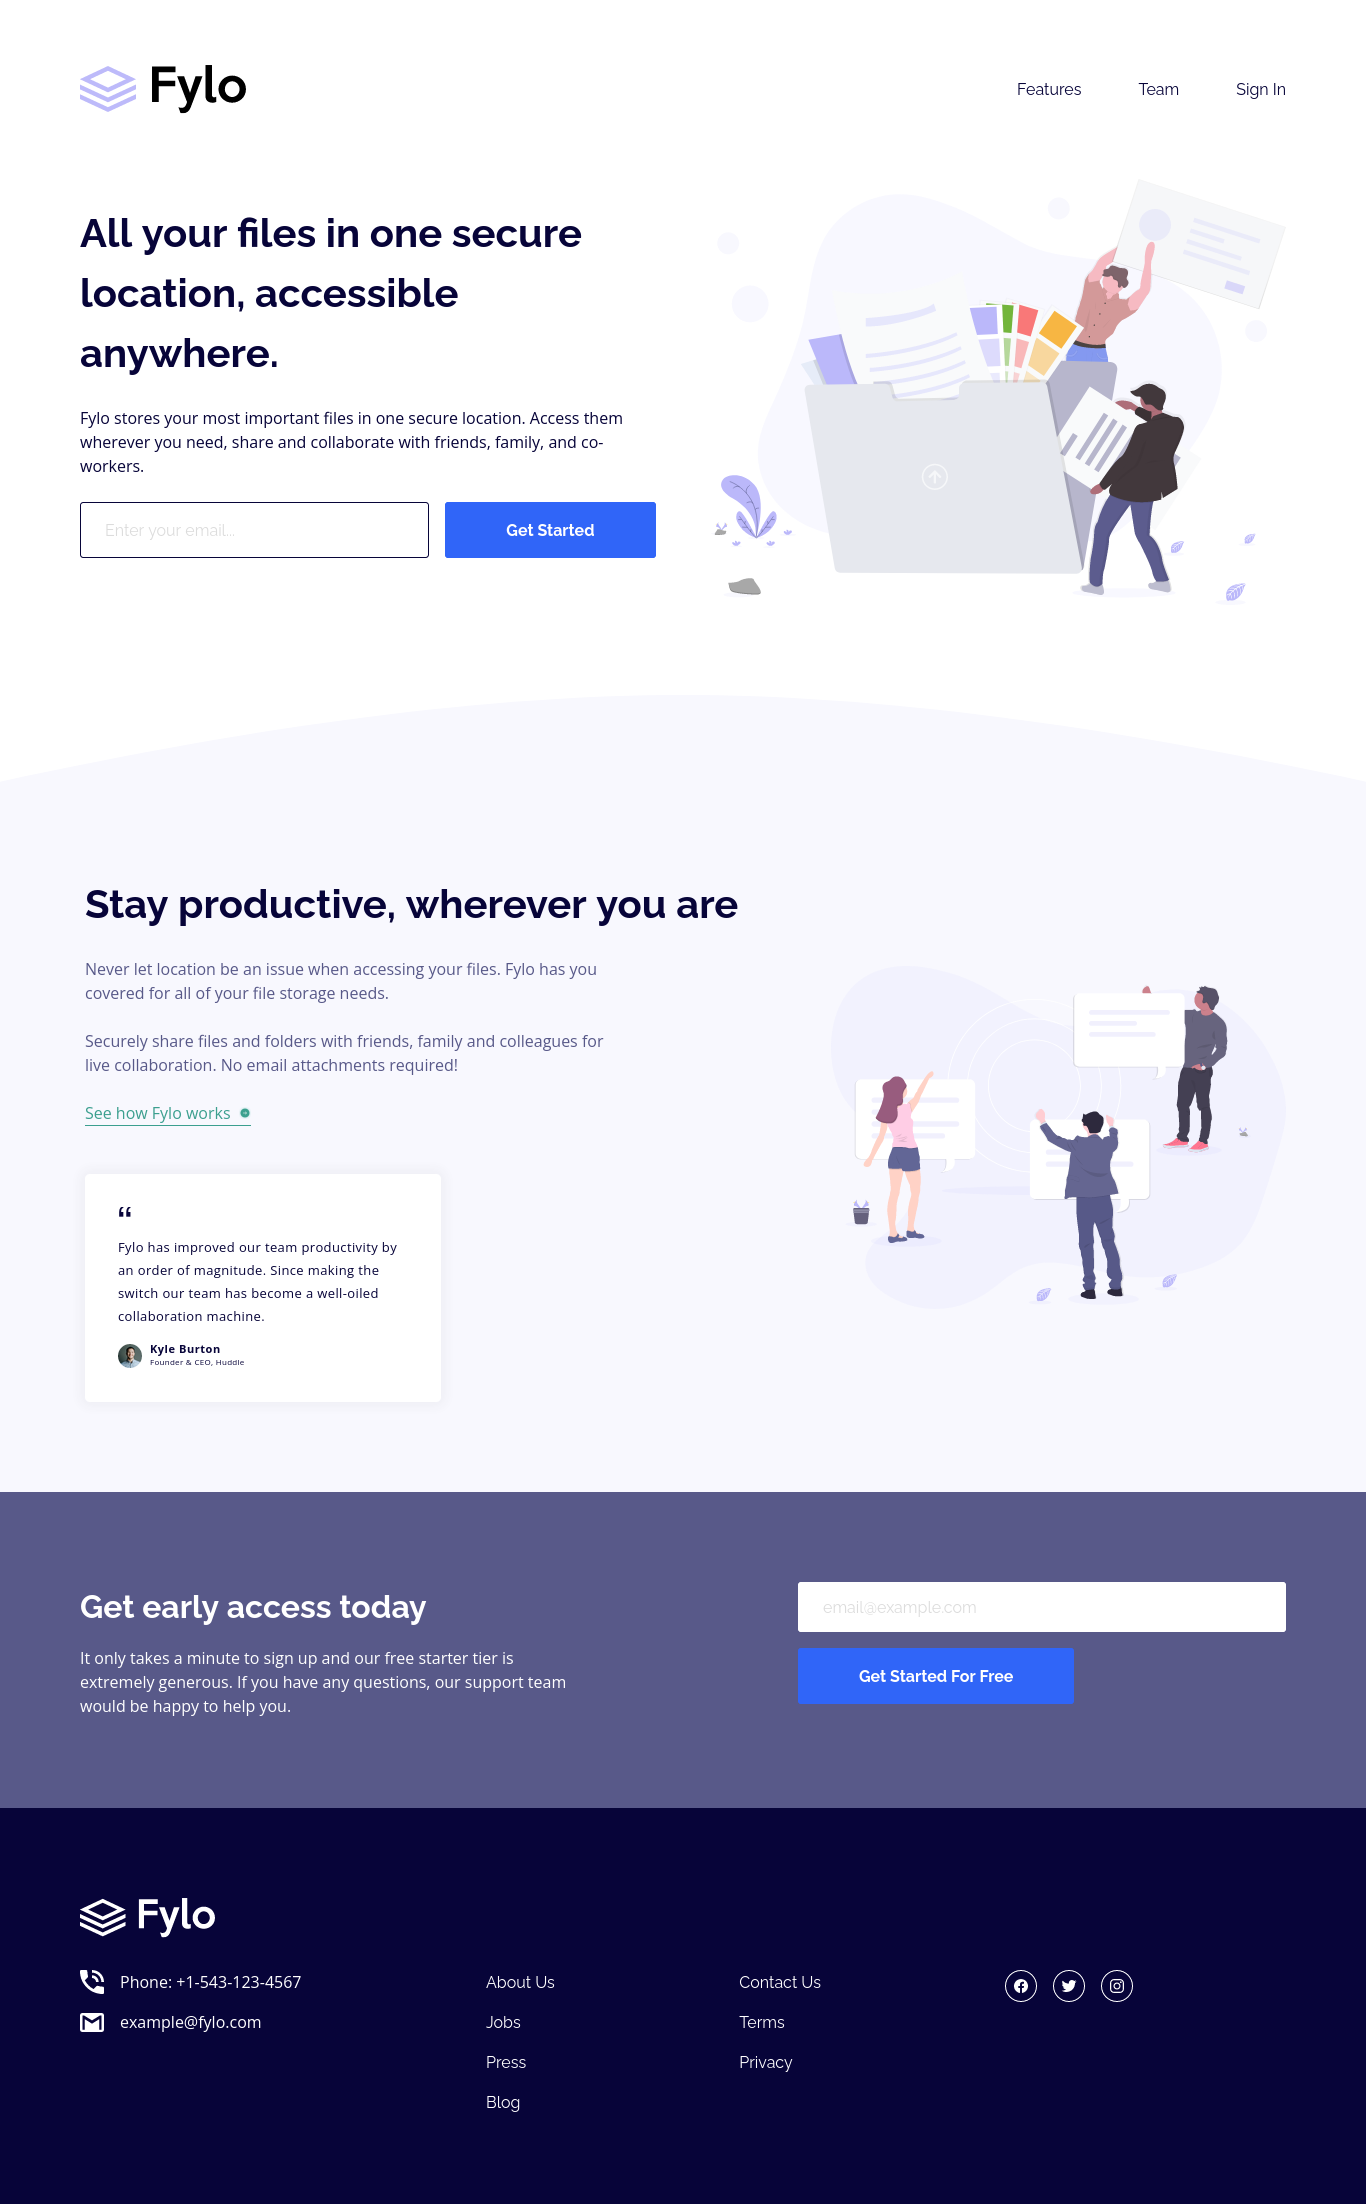
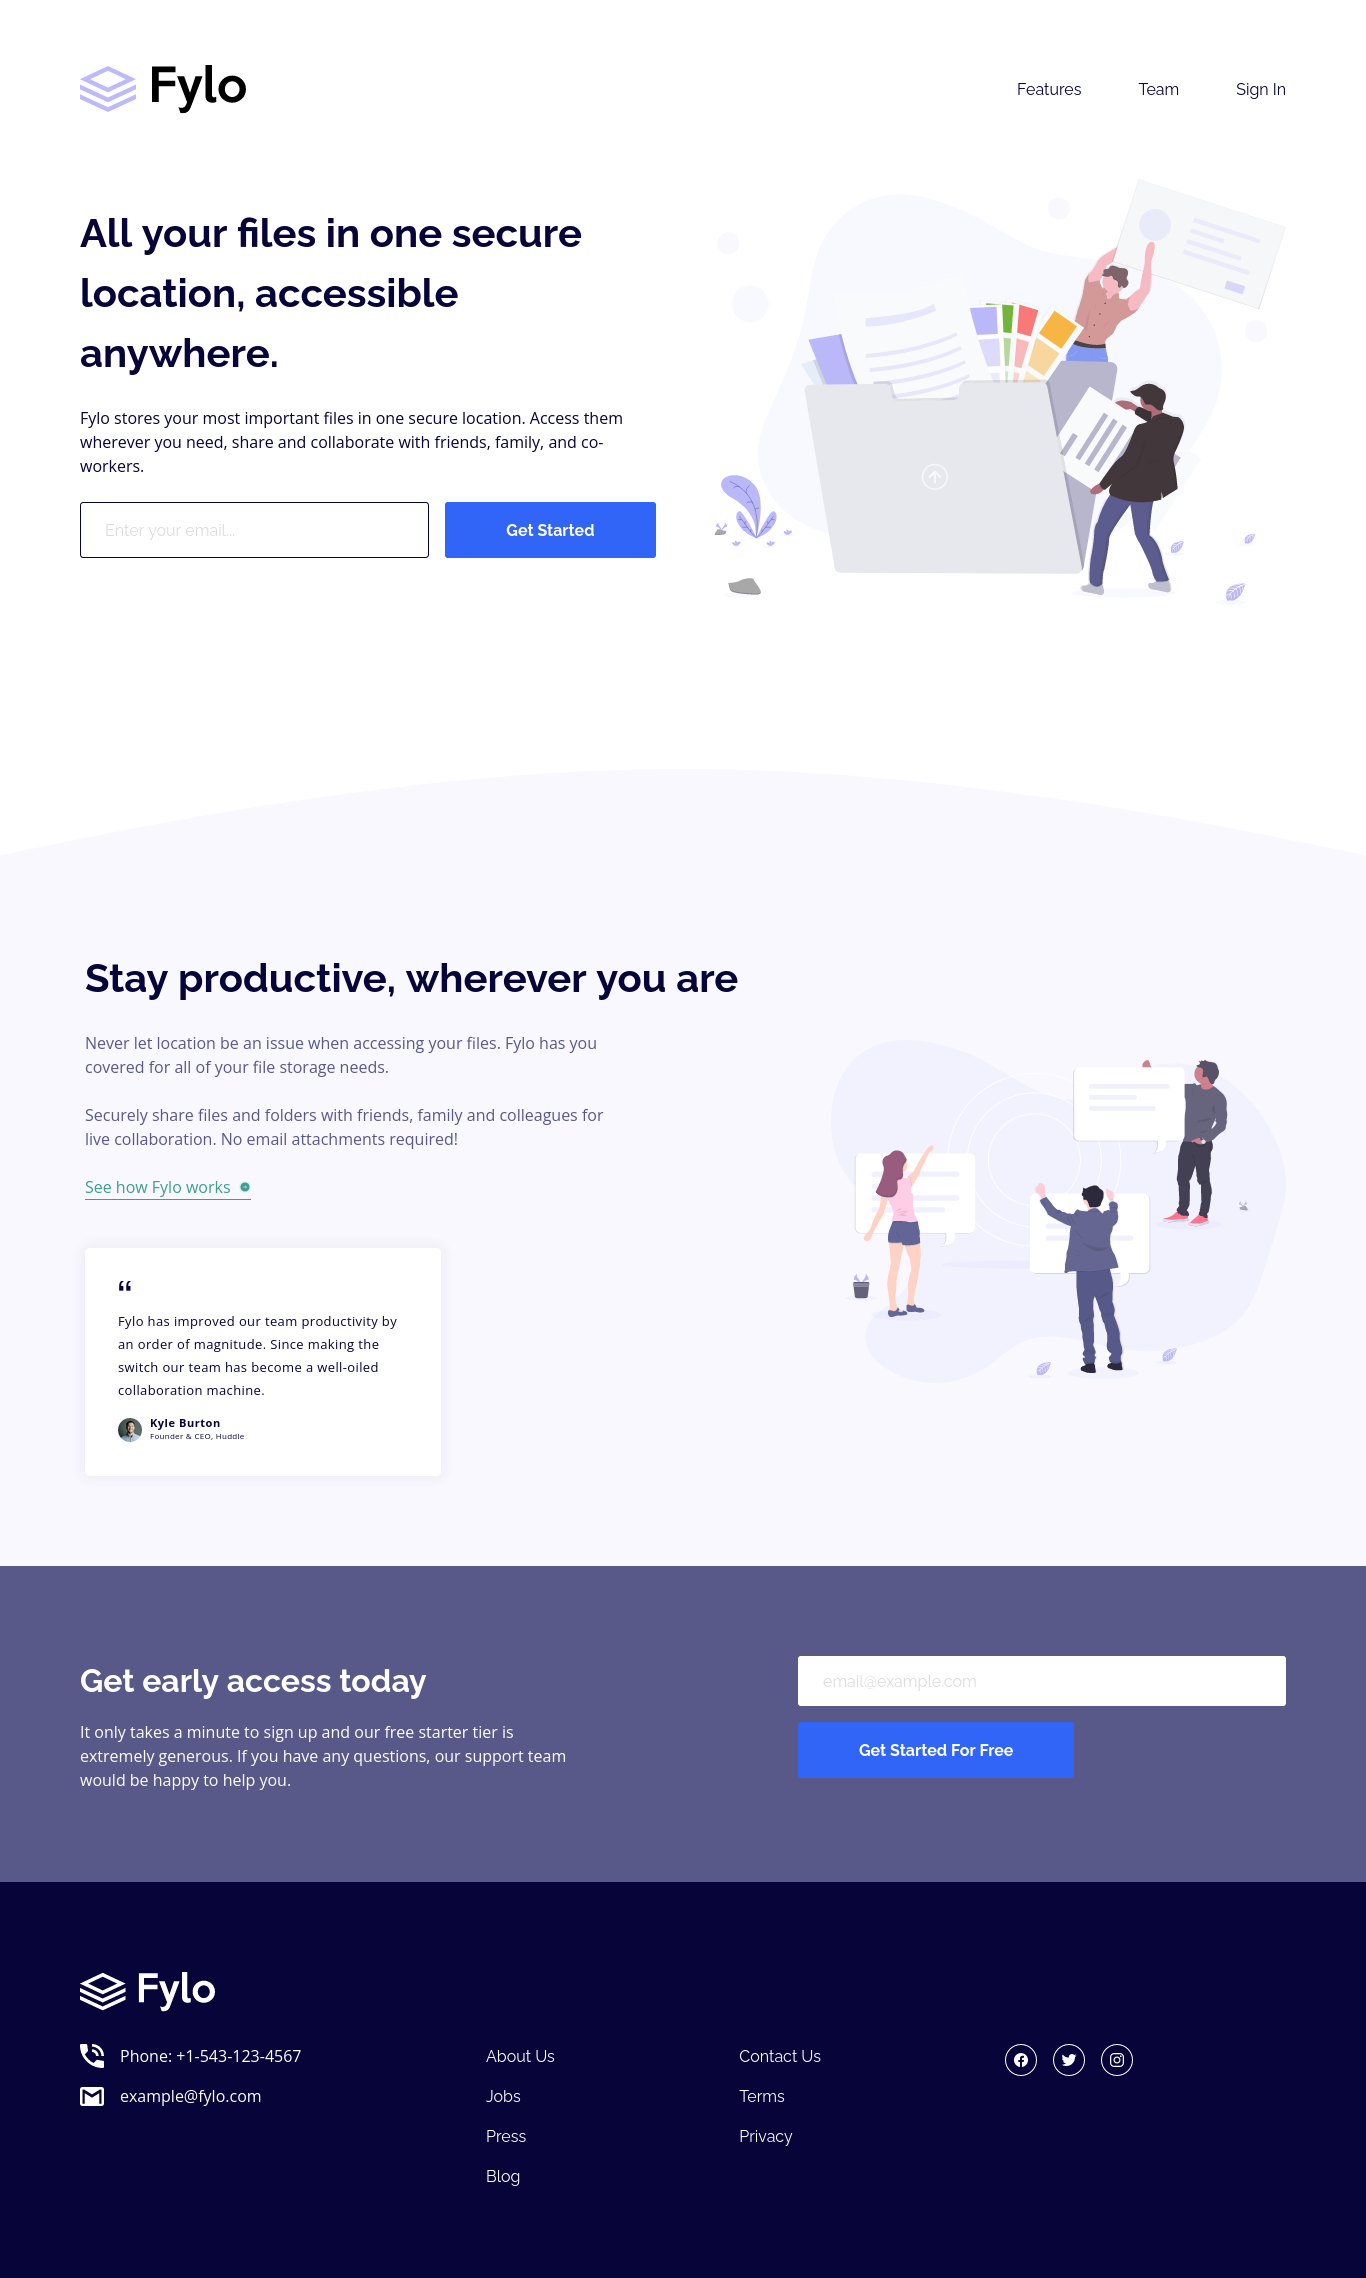
Fix hero section padding issue

diff --git a/sass/main.scss b/sass/main.scss
@@ -43,7 +43,7 @@
 }
 .main {
   .hero {
-    padding-bottom: 5.625rem;
+    padding-bottom: 10.25rem;
     &__section {
       @include grid(auto, 2.5rem);
       @include laptop {

diff --git a/css/main.css b/css/main.css
@@ -227,7 +227,7 @@ input {
 }
 
 .main .hero {
-  padding-bottom: 5.625rem;
+  padding-bottom: 10.25rem;
 }
 .main .hero__section {
   display: grid;
